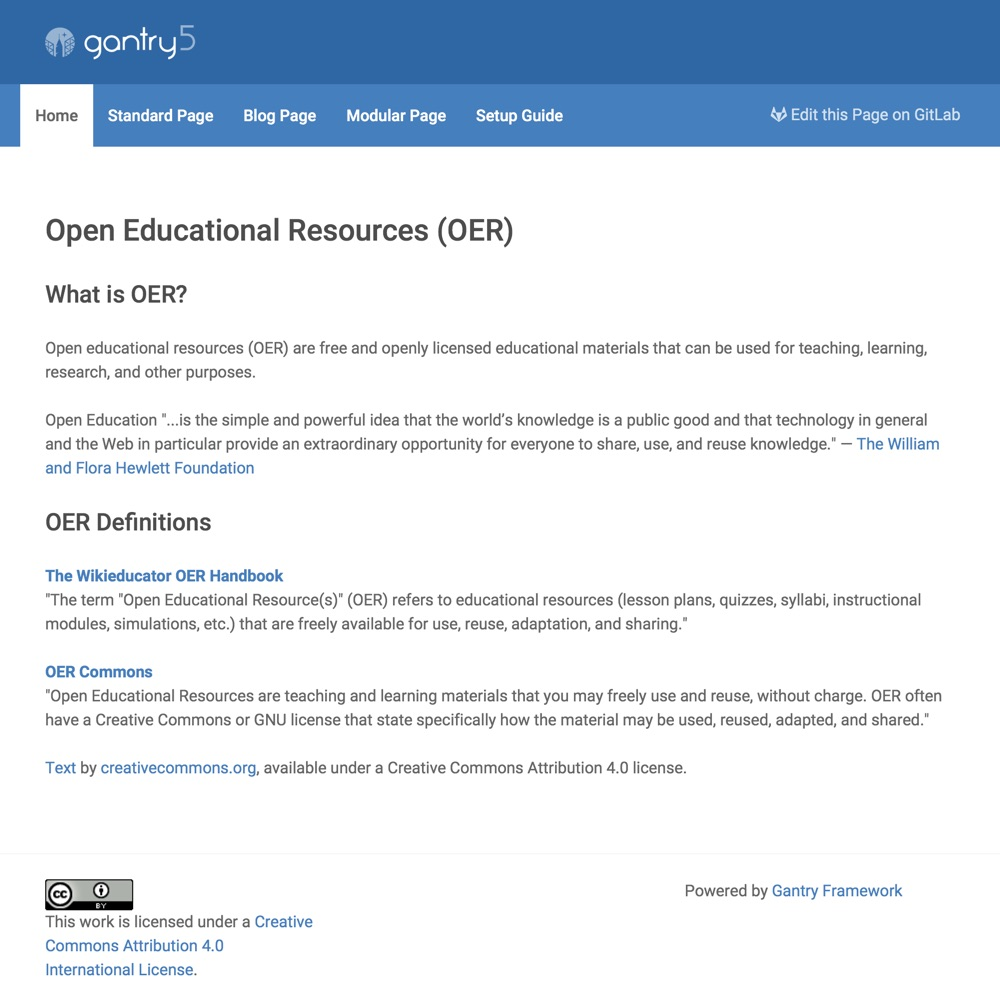
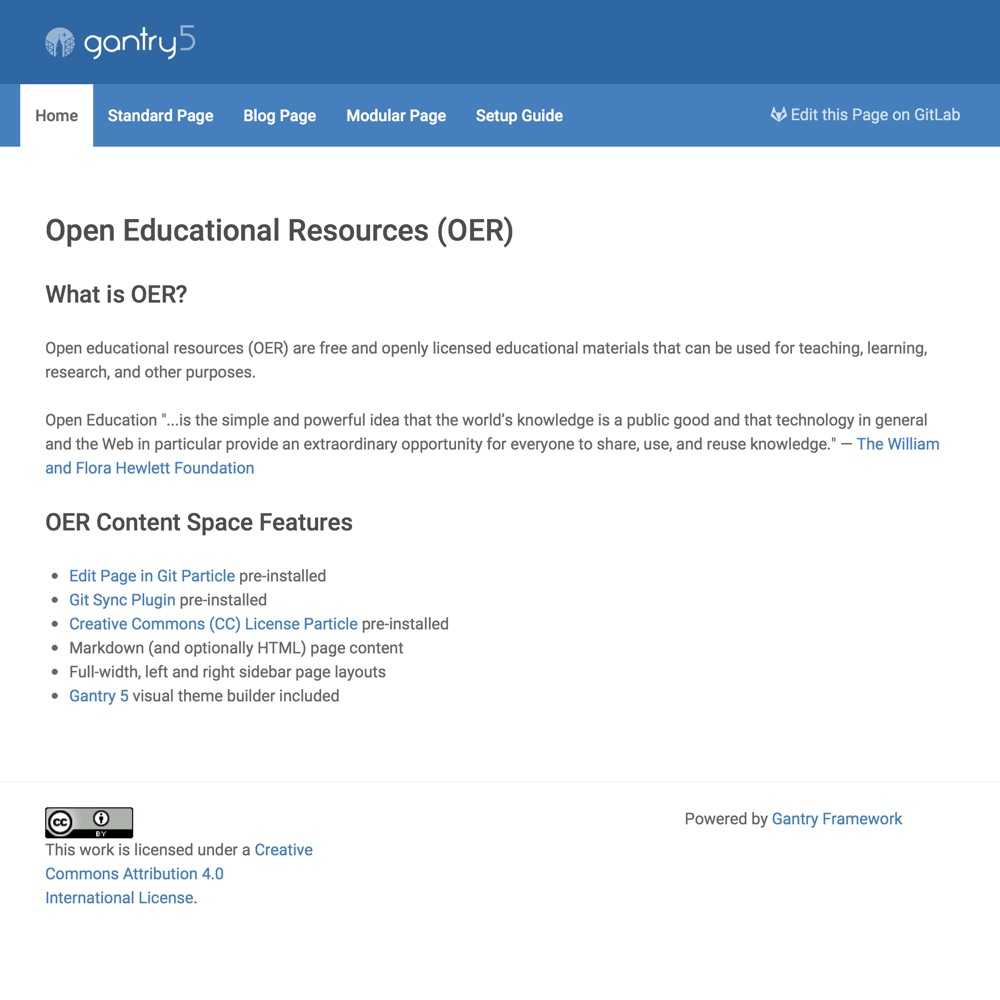
Updated default layout and screenshot.

diff --git a/pages/01.home/default.md b/pages/01.home/default.md
@@ -10,23 +10,10 @@ Open educational resources (OER) are free and openly licensed educational materi
 Open Education "...is the simple and powerful idea that the world’s knowledge is a public good and that technology in general and the Web in particular provide an extraordinary opportunity for everyone to share, use, and reuse knowledge."
 — [The William and Flora Hewlett Foundation](http://www.hewlett.org/programs/education-program/open-educational-resources)
 
-### OER Definitions
-**[The William and Flora Hewlett Foundation](http://www.hewlett.org/programs/education-program/open-educational-resources)**  
-"OER are teaching, learning, and research resources that reside in the public domain or have been released under an intellectual property license that permits their free use and re-purposing by others. Open educational resources include full courses, course materials, modules, textbooks, streaming videos, tests, software, and any other tools, materials, or techniques used to support access to knowledge." [1]
-
-**[OECD (Organization for Economic Co-operation and Development)](https://www.oecd.org/dataoecd/35/7/38654317.pdf)**  
-"digitised materials offered freely and openly for educators, students, and self-learners to use and reuse for teaching, learning, and research. OER includes learning content, software tools to develop, use, and distribute content, and implementation resources such as open licences."
-
-**[UNESCO](http://www.unesco.org/new/en/communication-and-information/events/calendar-of-events/events-websites/world-open-educational-resources-congress/)**  
-"teaching, learning and research materials in any medium, digital or otherwise, that reside in the public domain or have been released under an open license that permits no-cost access, use, adaptation and redistribution by others with no or limited restrictions."
-
-**[The Cape Town Open Education Declaration](http://www.capetowndeclaration.org/read-the-declaration)**  
-"[O]pen educational resources should be freely shared through open licences which facilitate use, revision, translation, improvement and sharing by anyone. Resources should be published in formats that facilitate both use and editing, and that accommodate a diversity of technical platforms. Whenever possible, they should also be available in formats that are accessible to people with disabilities and people who do not yet have access to the Internet."
-
-**[The Wikieducator OER Handbook](http://www.wikieducator.org/OER_Handbook/educator_version_one)**  
-"The term "Open Educational Resource(s)" (OER) refers to educational resources (lesson plans, quizzes, syllabi, instructional modules, simulations, etc.) that are freely available for use, reuse, adaptation, and sharing."
-
-**[OER Commons](http://www.oercommons.org/about#about-open-educational-resources)**  
-"Open Educational Resources are teaching and learning materials that you may freely use and reuse, without charge. OER often have a Creative Commons or GNU license that state specifically how the material may be used, reused, adapted, and shared."
-
-[Text](https://wiki.creativecommons.org/wiki/What_is_OER%3F) by [creativecommons.org](https://wiki.creativecommons.org), available under a Creative Commons Attribution 4.0 license.
+### OER Content Space Features
+* [Edit Page in Git Particle](https://github.com/hibbitts-design/grav-gantry5-particle-edit-view-page-in-git) pre-installed
+* [Git Sync Plugin](https://github.com/trilbymedia/grav-plugin-git-sync) pre-installed
+* [Creative Commons (CC) License Particle](https://github.com/hibbitts-design/grav-gantry5-particle-cc-license) pre-installed
+* Markdown (and optionally HTML) page content
+* Full-width, left and right sidebar page layouts
+* [Gantry 5](http://gantry.org/) visual theme builder included
